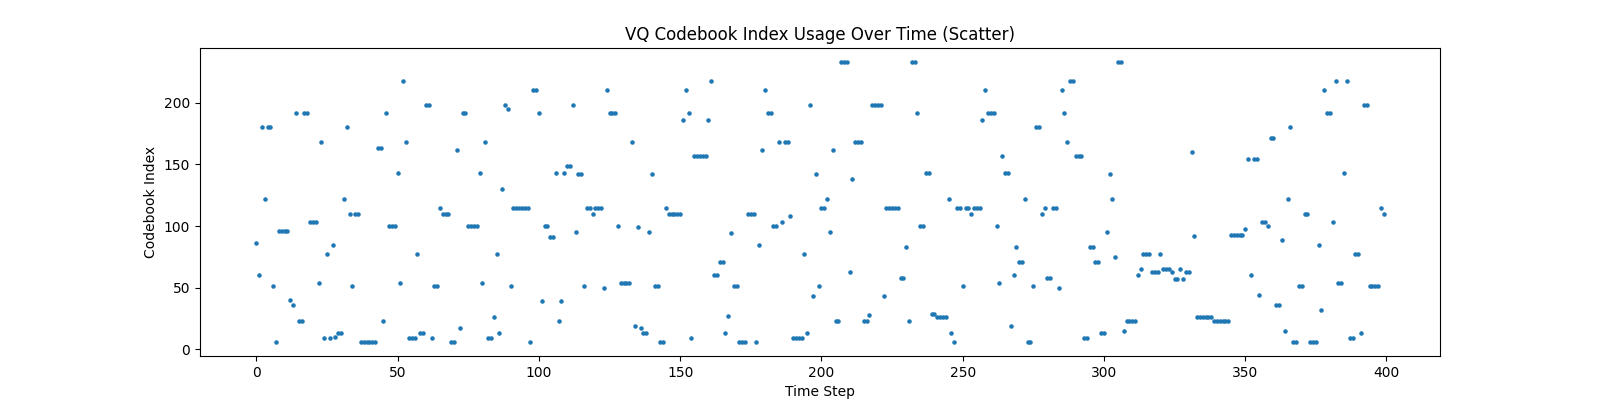
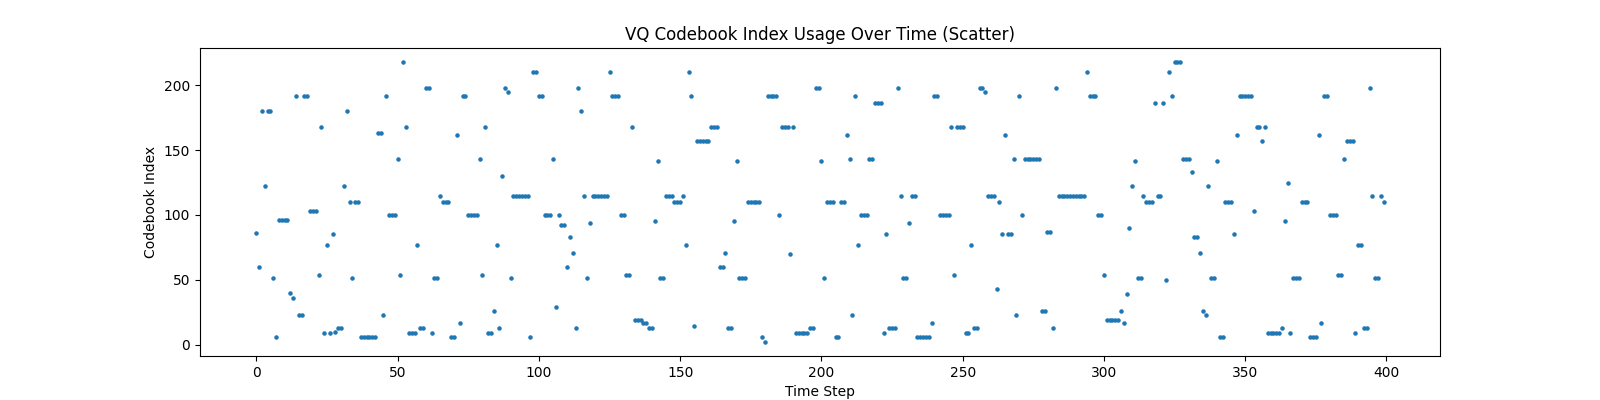
STDP_VQ_VAE_v2

diff --git a/legged_gym/legged_gym/utils/helpers.py b/legged_gym/legged_gym/utils/helpers.py
@@ -124,10 +124,10 @@ def get_load_path(root, load_run=-1, checkpoint=-1):
     # load_path = os.path.join(load_run, model)
 
     load_path = '/home/byang/Project_byang/wuba_robot/legged_gym/logs/rough_go2/Apr22_19-05-43_/model_20000.pt'
-    load_path = '/home/byang/Project/wuba_robot/legged_gym/logs/rough_go2/Jun18_19-37-18_/model_20000.pt'          # VQ-VAE
-    # load_path = '/home/byang/Project/wuba_robot/legged_gym/logs/rough_go2/Jun19_13-47-49_/model_16000.pt'
+    # load_path = '/home/byang/Project/wuba_robot/legged_gym/logs/rough_go2/Jun18_19-37-18_/model_20000.pt'          # VQ-VAE
+    load_path = '/home/byang/Project/wuba_robot/legged_gym/logs/rough_go2/Jun19_13-47-49_/model_16000.pt'
     # load_path = '/home/byang/Project/wuba_robot/legged_gym/logs/rough_quadrobot_byang/Jun25_18-03-53_/model_15800.pt'
-    # load_path = '/home/byang/Project/wuba_robot/legged_gym/logs/rough_go2/Jun30_11-47-41_/model_20000.pt'   # STDP_VQ-VAE
+    load_path = '/home/byang/Project/wuba_robot/legged_gym/logs/rough_go2/Jun30_11-47-41_/model_20000.pt'   # STDP_VQ-VAE
     return load_path
 
 def update_cfg_from_args(env_cfg, cfg_train, args):
@@ -164,7 +164,7 @@ def get_args():
         {"name": "--load_run", "type": str,  "help": "Name of the run to load when resume=True. If -1: will load the last run. Overrides config file if provided."},
         {"name": "--checkpoint", "type": int,  "help": "Saved model checkpoint number. If -1: will load the last checkpoint. Overrides config file if provided."},
         
-        {"name": "--headless", "action": "store_true", "default": False, "help": "Force display off at all times"},
+        {"name": "--headless", "action": "store_true", "default": True, "help": "Force display off at all times"},
         {"name": "--horovod", "action": "store_true", "default": False, "help": "Use horovod for multi-gpu training"},
         {"name": "--rl_device", "type": str, "default": "cuda:0", "help": 'Device used by the RL algorithm, (cpu, gpu, cuda:0, cuda:1 etc..)'},
         {"name": "--num_envs", "type": int, "help": "Number of environments to create. Overrides config file if provided."},

diff --git a/legged_gym/legged_gym/scripts/test_recovery_time1.py b/legged_gym/legged_gym/scripts/test_recovery_time1.py
@@ -82,7 +82,7 @@ def play(args, x_vel=2.0, y_vel=0.0, yaw_vel=0.0):
     env_cfg.env.num_envs = 1
     env_cfg.terrain.num_rows = 1
     env_cfg.terrain.num_cols = 1
-    env_cfg.terrain.mesh_type = "plane"
+    env_cfg.terrain.mesh_type = "trimesh"
     env_cfg.terrain.curriculum = False
     env_cfg.terrain.center_robots = True
     env_cfg.noise.add_noise = False
@@ -99,6 +99,7 @@ def play(args, x_vel=2.0, y_vel=0.0, yaw_vel=0.0):
     env_cfg.y_command = 0.0
     env_cfg.yaw_command = 0.0
     env_cfg.commands.camera_follow = True
+    env_cfg.terrain.terrain_proportions = [0., 1.0, 0., 0., 0.]
     
     # env_cfg.sim_params = "cuda:0"
 

diff --git a/rsl_rl/rsl_rl/modules/actor_critic.py b/rsl_rl/rsl_rl/modules/actor_critic.py
@@ -219,8 +219,8 @@ class ActorCritic(nn.Module):
         self.encoder_fc = nn.Linear(encoder_hidden_dims[-1], latent_dim) 
 
         # VQ码本 (核心组件)
-        # self.vq_layer = STDPVectorQuantizer(num_embeddings, latent_dim, commitment_cost)
-        self.vq_layer = VectorQuantizer(num_embeddings, latent_dim, commitment_cost)
+        self.vq_layer = STDPVectorQuantizer(num_embeddings, latent_dim, commitment_cost)
+        # self.vq_layer = VectorQuantizer(num_embeddings, latent_dim, commitment_cost)
 
         # # 修改解码器输入维度适配VQ
         # self.decoder_input_fc = nn.Linear(latent_dim, decoder_hidden_dims[0])

diff --git a/legged_gym/legged_gym/scripts/play.py b/legged_gym/legged_gym/scripts/play.py
@@ -91,6 +91,7 @@ def play(args, x_vel=2.0, y_vel=0.0, yaw_vel=0.0):
     env_cfg.y_command = 0.0
     env_cfg.yaw_command = 0.0
     
+    
     # env_cfg.sim_params = "cuda:0"
 
     # prepare environment
